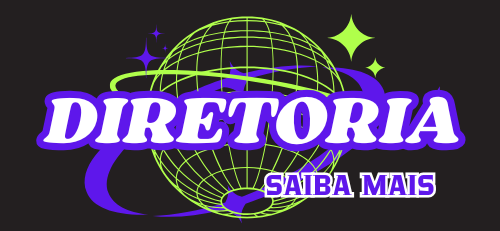
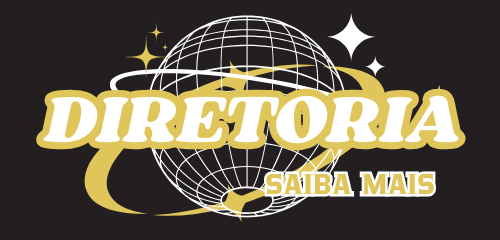
Pv Festfy Reveillon

diff --git a/src/pages/Home/Home.css b/src/pages/Home/Home.css
@@ -6,7 +6,7 @@
     position: relative;
     width: 100%;
     height: 30px; 
-    background-color: #b0ff4b; 
+    background-color: var(--ter); 
 }
 
 .marquee h1 {
@@ -56,22 +56,7 @@
     font-style: normal;
     font-size: 3.8pc;
     animation: pulsar 3s ease-in-out infinite;
-
  
-}
-@keyframes pulsar {
-    0% {
-        transform: scale(1);
-        opacity: 1;
-    }
-    50% {
-        transform: scale(1.05);
-        opacity: 0.8;
-    }
-    100% {
-        transform: scale(1);
-        opacity: 1;
-    }
 }
 #logo_home {
     font-family: "Danfo", serif;
@@ -82,10 +67,8 @@
       "ELSH" 0;
     transform: perspective(500px) rotateX(-10deg); /* Ajuste o valor para a curvatura desejada */
     transform-origin: center bottom;
-    color: #b0ff4b;
+    color: white;
     font-size: 5pc;
-    animation: pulsar 3s ease-in-out infinite;
-
 }
 
 
@@ -99,13 +82,11 @@
 }
 
 .container img {
-    width: 19pc;
+    width: 22pc;
     border-radius: 1pc;
+    animation: pulsar 3s ease-in-out infinite;
 }
 
-/* #banner{
-    width: 36pc;
-} */
 .container button {
     width: 13pc;
     height: 3pc;
@@ -148,6 +129,20 @@
 .dir button {
     display: block;
 }
+@keyframes pulsar {
+    0% {
+        transform: scale(1);
+        opacity: 1;
+    }
+    50% {
+        transform: scale(1.05);
+        opacity: 0.8;
+    }
+    100% {
+        transform: scale(1);
+        opacity: 1;
+    }
+}
 
 @media (max-width: 600px) {
     .marquee {
@@ -180,7 +175,7 @@
     }
 
     .container img {
-        width: 25pc;
+        width: 16pc;
     }
 
     .esq button {
@@ -194,7 +189,4 @@
         font-size: 3.3pc;
       
     }
-    /* #banner{
-        width: 21pc;
-    } */
 }

diff --git a/src/pages/Home/Home.jsx b/src/pages/Home/Home.jsx
@@ -1,7 +1,7 @@
 import React from 'react';
 import { Link } from 'react-router-dom'; 
 import './Home.css';
-import banner from './b.png';
+import banner from './org.png';
 
 function Home() {
     return (
@@ -21,7 +21,7 @@ function Home() {
                 <br />
 
                 <div className="dir">
-                    <img id='banner' src={banner} alt="Banner" />
+                    <img src={banner} alt="Banner" />
                     <Link to="/pagamento">
                         <button>QUERO IR!</button>
                     </Link>

diff --git a/src/components/navbar.css b/src/components/navbar.css
@@ -20,7 +20,7 @@ body {
   display: inline-block;
   transform: perspective(500px) rotateX(-10deg); /* Ajuste o valor para a curvatura desejada */
   transform-origin: center bottom;
-  color: #b0ff4b;
+  color: var(--ter);
 
 }
 

diff --git a/src/index.css b/src/index.css
@@ -8,7 +8,7 @@
 :root {
     --primary: #272727;
     --secondary: #000000;
-    --ter: #5e17eb;;
+    --ter: #dfc55a;;
     --cinza: #A4A1A1;
     --cinzaClaro: #D9D9D9;
     --hover:#a8aa67;
